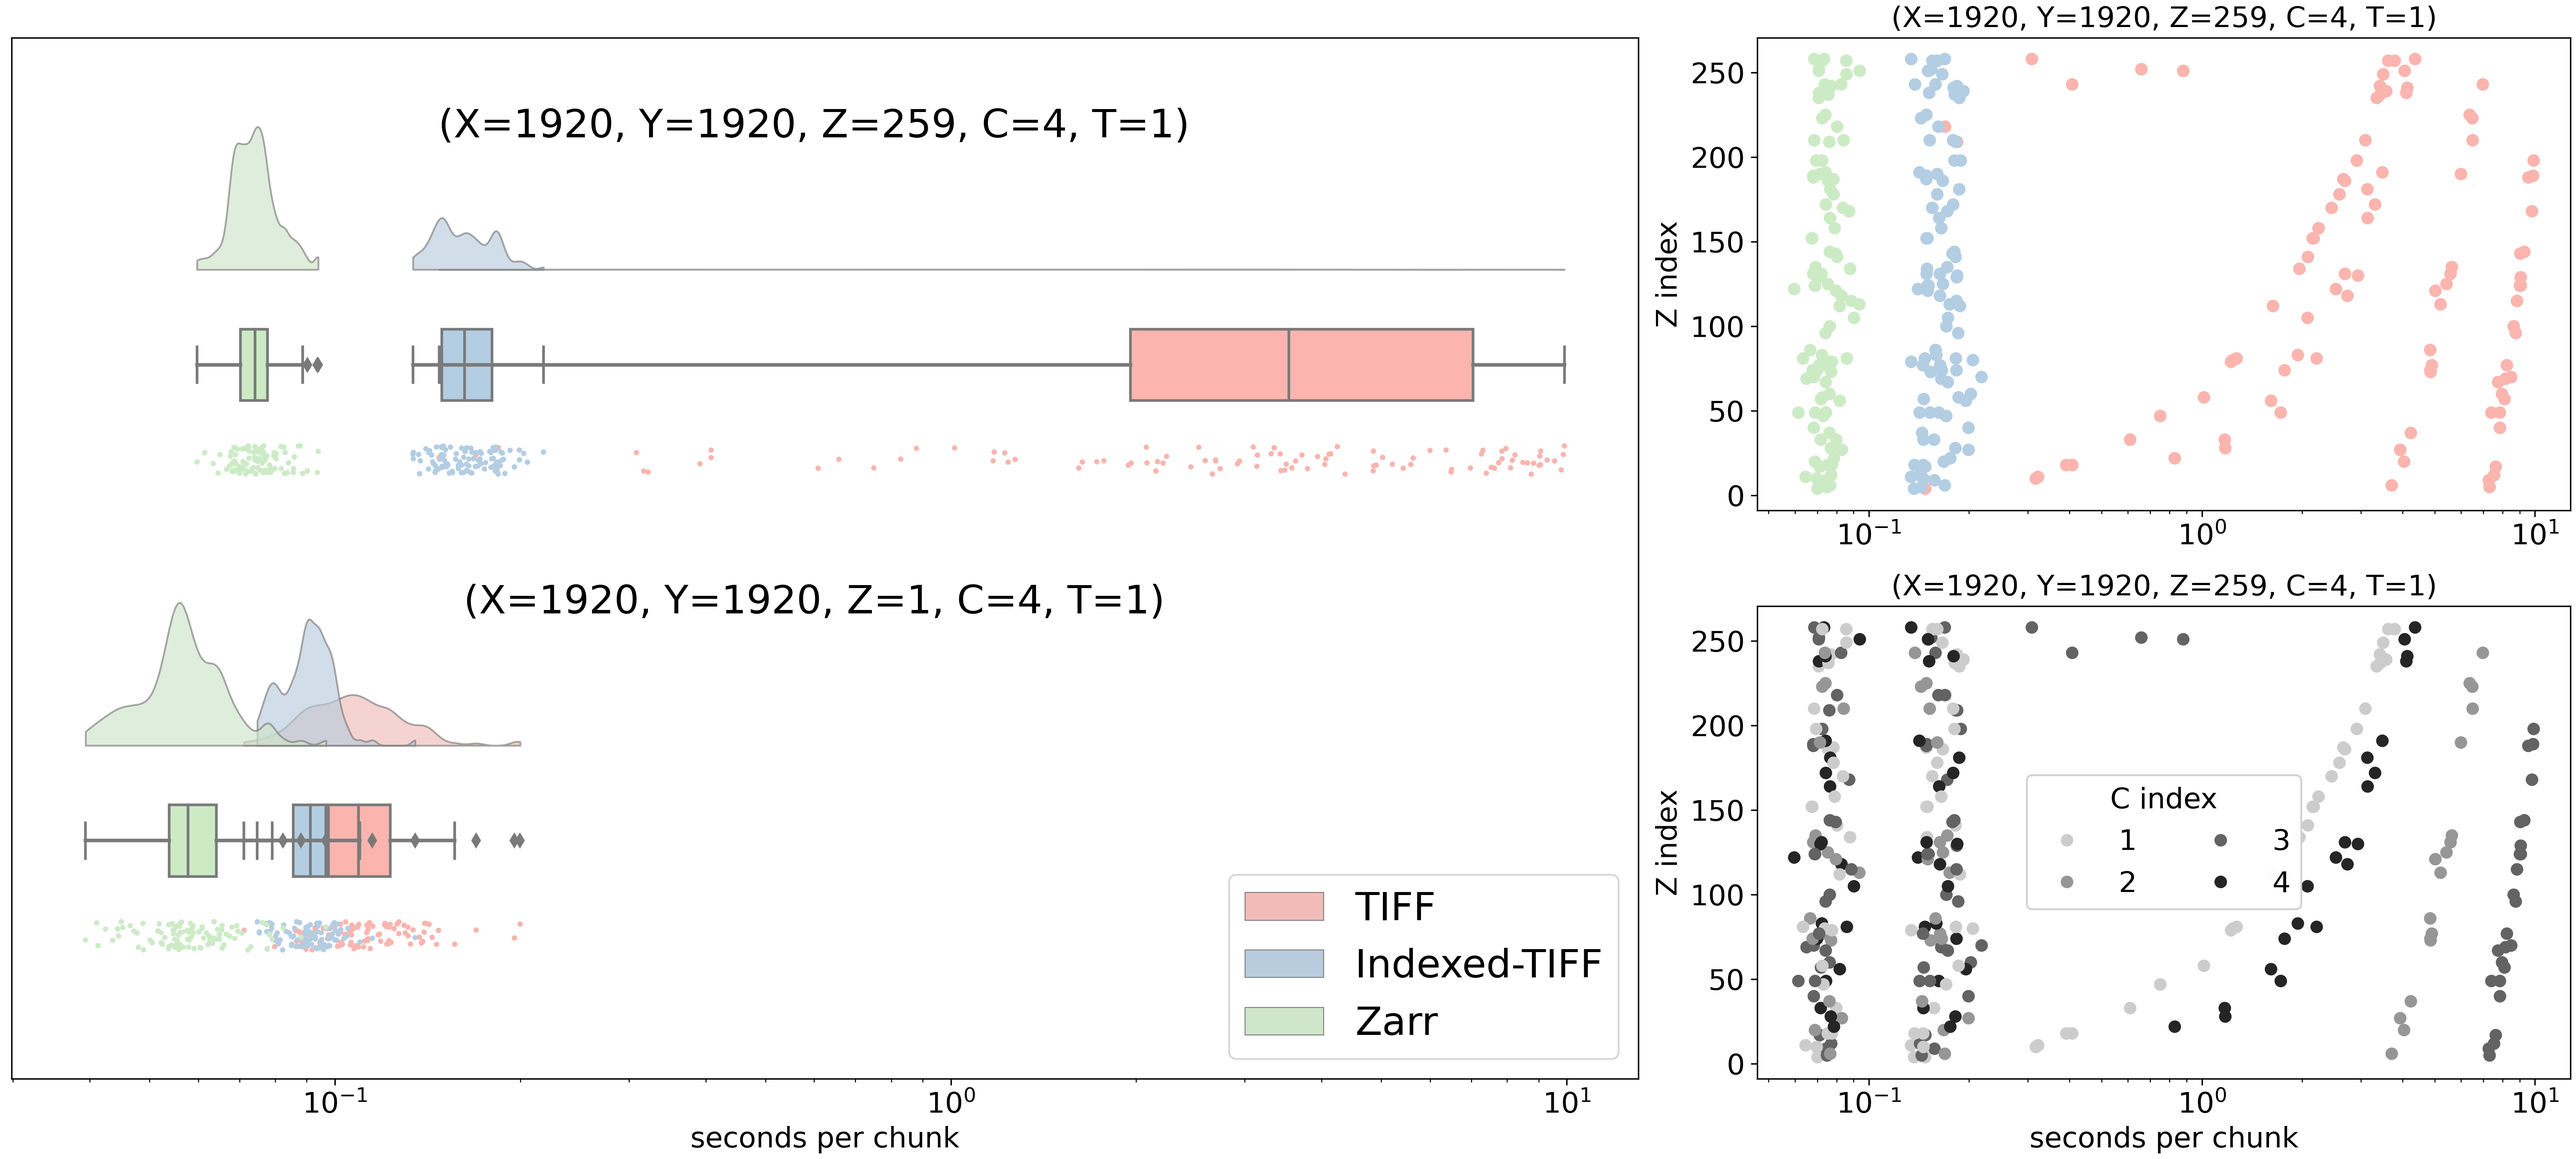
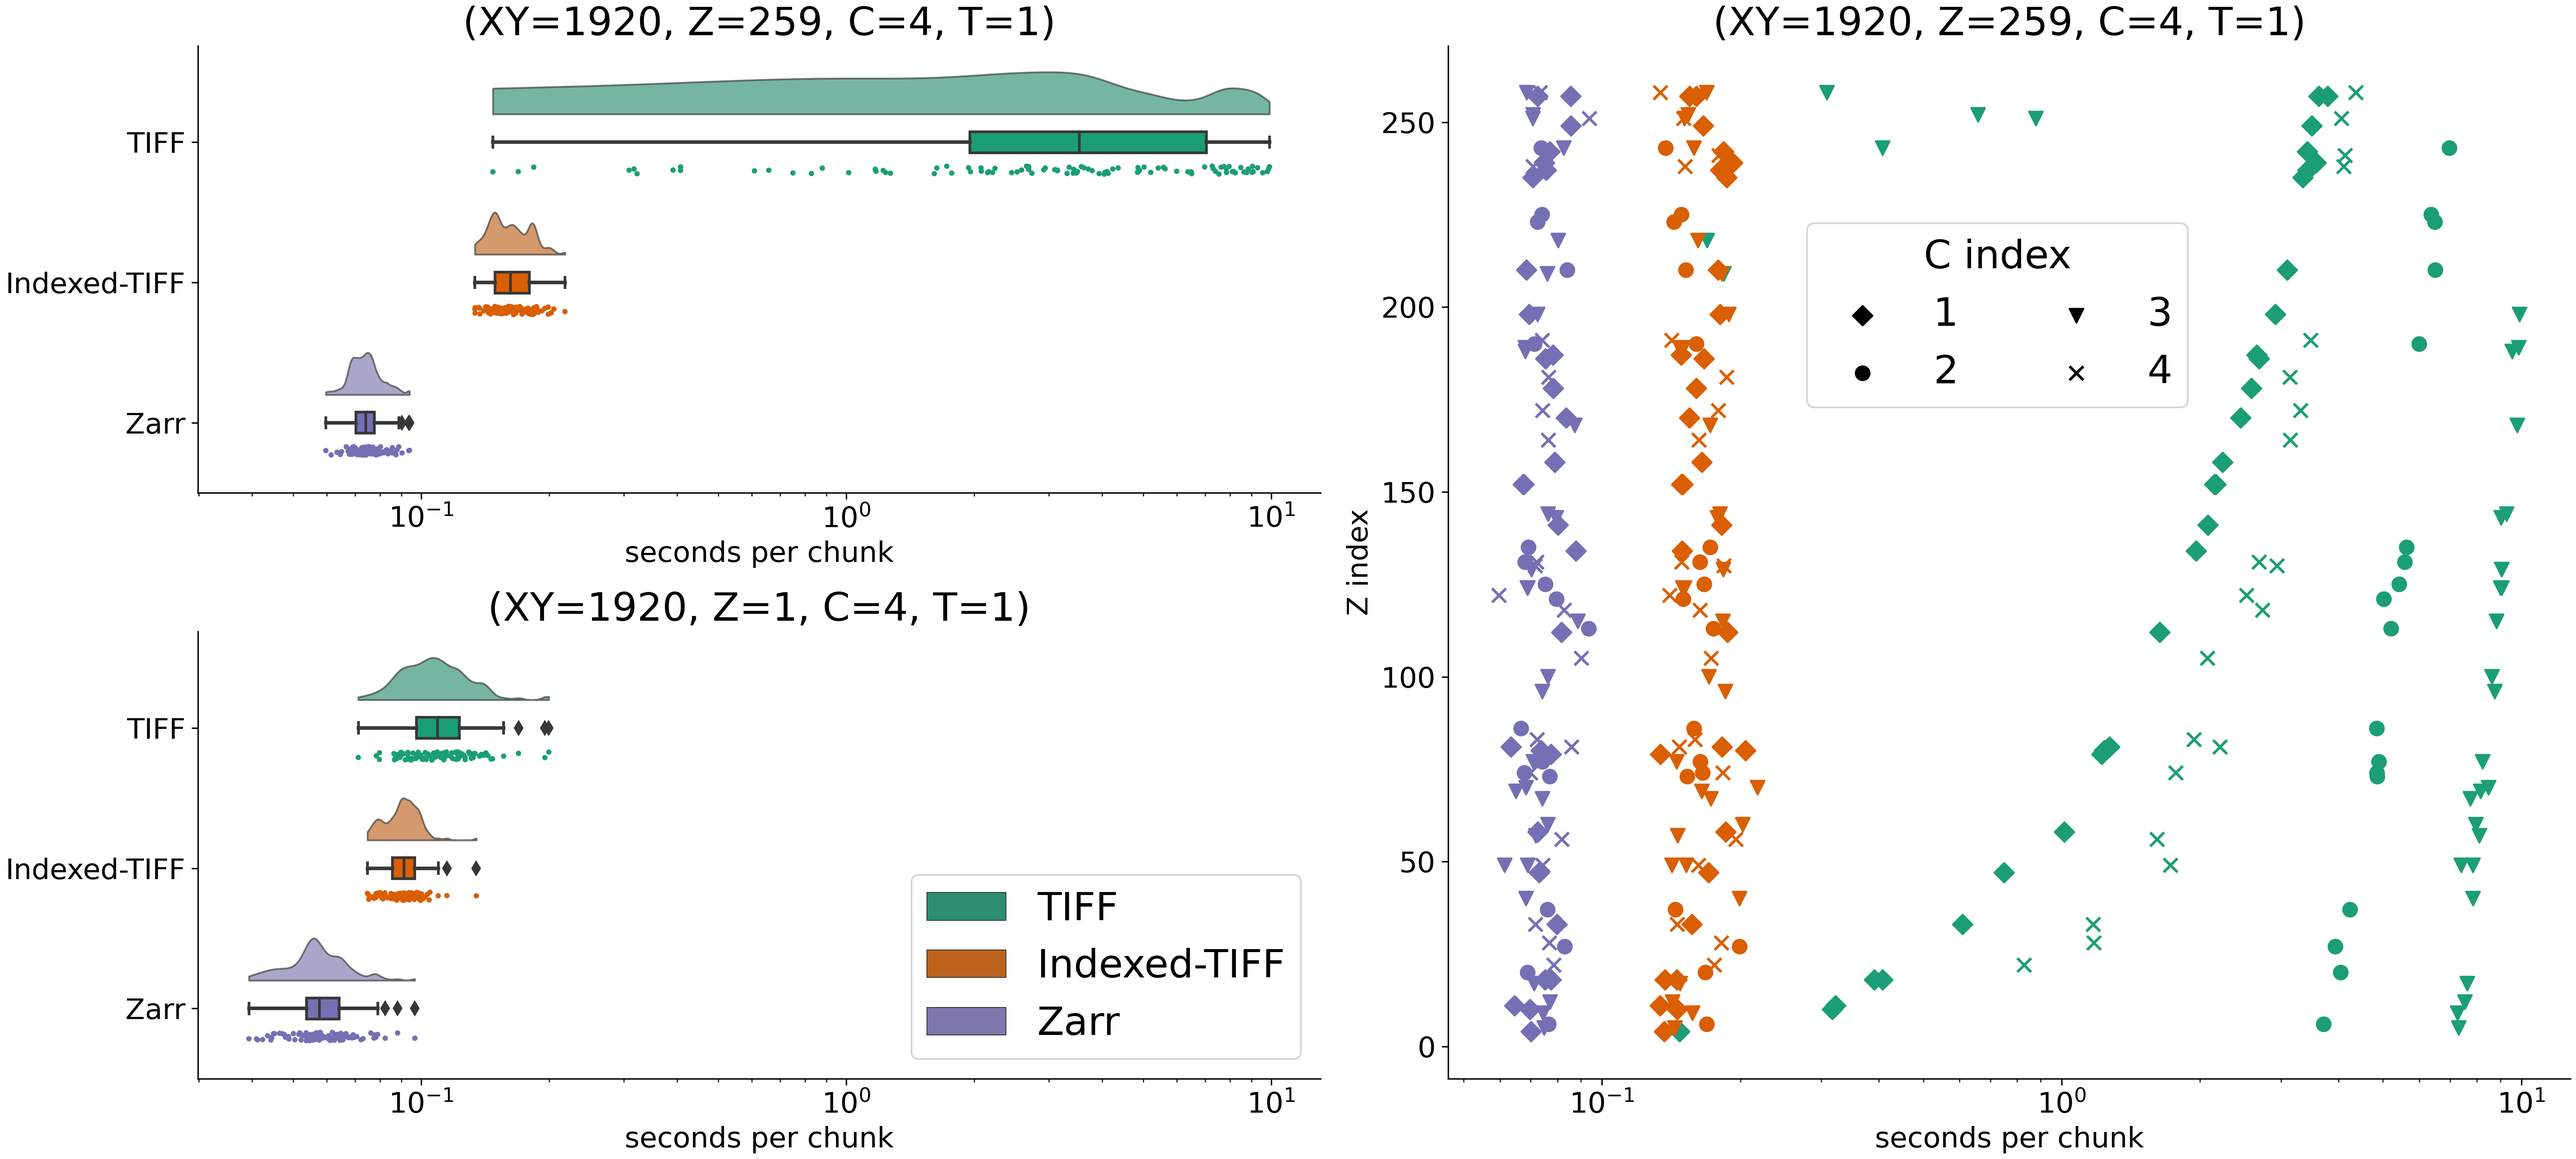
chore(plots): clean up matplotlib, use accessible color palette

diff --git a/js/scripts/plot_combined.py b/js/scripts/plot_combined.py
@@ -4,29 +4,14 @@ from pathlib import Path
 import matplotlib.pyplot as plt
 import pandas as pd
 import ptitprince as pt
-from matplotlib.colors import ListedColormap
 
-if __name__ == "__main__":
-    f = plt.figure(constrained_layout=True, figsize=(20, 9))
-    gs = f.add_gridspec(2, 3)
 
-    ax = f.add_subplot(gs[:, :2])
-    ax1 = f.add_subplot(gs[0, 2])
-    ax2 = f.add_subplot(gs[1, 2])
-
-    cmap = plt.get_cmap("Pastel1")
-    font = 16
-    fontlarge = 22
-
-    results_dir = Path(__file__).parent / ".." / "results"
-    z259 = pd.read_csv(results_dir / "XY-1920-Z-259-C-4-T-1-XC-256.csv")
-    z1 = pd.read_csv(results_dir / "XY-1920-Z-1-C-4-T-1-XC-256.csv")
-
-    ax = pt.RainCloud(
-        x="name",
+def plt_raincloud(ax, df, cmap):
+    pt.RainCloud(
+        x="type",
         y="seconds",
         hue="type",
-        data=pd.concat((z259, z1)),
+        data=df,
         palette=cmap.name,
         width_viol=0.6,
         ax=ax,
@@ -35,73 +20,77 @@ if __name__ == "__main__":
         jitter=0.03,
         move=0.2,
     )
-
+    ax.legend().set_visible(False)
+    ax.axes.get_yaxis().get_label().set_visible(False)
+    ax.set_title(df['name'][0])
     ax.set_xscale("log")
     ax.set_xlabel("seconds per chunk")
-    ax.yaxis.set_visible(False)
+    return ax
 
-    # add text
-    offset = 0.6
-    ax.text(
-        offset,
-        -0.5,
-        "(X=1920, Y=1920, Z=259, C=4, T=1)",
-        ha="center",
-        va="center",
-        fontsize=fontlarge,
-    )
-    ax.text(
-        offset,
-        0.5,
-        "(X=1920, Y=1920, Z=1, C=4, T=1)",
-        ha="center",
-        va="center",
-        fontsize=fontlarge,
-    )
+def scatter_channel_index(ax, df, cmap, fontsize):
+    ax.set_title(df['name'][0])
+    ax.set_ylabel("Z index")
+    ax.set_xlabel("seconds per chunk")
+    ax.set_xscale("log")
 
-    ax.axes.get_yaxis().get_label().set_visible(False)
-    handles, labels = ax.get_legend_handles_labels()
-    ax.legend(handles[0:3], labels[0:3], loc="lower right", fontsize=fontlarge)
+    for i in range(1, 5): 
+        types = list(df['type'].unique())
+        subset = df[df['c'] == i]
+        ax.scatter(
+            subset.seconds,
+            subset.z,
+            marker={1: 'D', 2: 'o', 3: 'v', 4: 'x'}[i],
+            c=subset['type'].map(
+                {name: cmap.colors[i] for i, name in enumerate(types)}
+            ),
+            label=str(i),
+            s=60
+        )
 
-    ax1.set_title("(X=1920, Y=1920, Z=259, C=4, T=1)", fontsize=fontlarge)
-    ax1.set_ylabel("Z index")
-    ax1.set_xscale("log")
-    ax1.scatter(
-        z259.seconds,
-        z259.z,
-        c=z259.type.map(
-            {name: cmap.colors[i] for i, name in enumerate(z259.type.unique())}
-        ),
-    )
-
-    ax2.set_title("(X=1920, Y=1920, Z=259, C=4, T=1)", fontsize=fontlarge)
-    ax2.set_ylabel("Z index")
-    ax2.set_xlabel("seconds per chunk")
-    ax2.set_xscale("log")
-    scatter = ax2.scatter(
-        z259.seconds,
-        z259.z,
-        c=z259.c.astype("category"),
-        cmap=ListedColormap(["#cccccc", "#969696", "#636363", "#252525"]),
-    )
-
-    legend1 = ax2.legend(
-        *scatter.legend_elements(),
+    ax.legend(
+        *ax.get_legend_handles_labels(),
         title="C index",
         ncol=2,
-        loc="center",
-        fontsize=font,
-        title_fontsize=font,
+        loc=(0.32, .65), 
+        fontsize=fontsize,
+        title_fontsize=fontsize,
     )
+    for handle in ax.get_legend().legendHandles:
+        handle.set_color('black')
 
-    ax2.add_artist(legend1)
+if __name__ == "__main__":
+    font = 16
+    fontlarge = 22
+    cmap = plt.get_cmap("Dark2")
+
+    results_dir = Path.cwd() / "results"
+    z259 = pd.read_csv(results_dir / "XY-1920-Z-259-C-4-T-1-XC-256.csv")
+    z1 = pd.read_csv(results_dir / "XY-1920-Z-1-C-4-T-1-XC-256.csv")
+
+    f = plt.figure(constrained_layout=True, figsize=(20, 9))
+    gs = f.add_gridspec(2, 2)
+
+    top_left = f.add_subplot(gs[0, 0])
+    bottom_left = f.add_subplot(gs[1, 0], sharex=top_left)
+    right = f.add_subplot(gs[:, 1:2])
+
+
+    plt_raincloud(top_left, z259, cmap)
+    plt_raincloud(bottom_left, z1, cmap)
+    handles, labels = bottom_left.get_legend_handles_labels()
+    bottom_left.legend(handles[0:3], labels[0:3], loc="lower right", fontsize=fontlarge)
+
+    scatter_channel_index(right, z259, cmap, fontsize=fontlarge)
 
     # bump fontsize for each element
-    for a in [ax, ax1, ax2]:
+    for ax in [top_left, bottom_left, right]:
+        ax.title.set_fontsize(fontlarge)
+        ax.spines['right'].set_visible(False)
+        ax.spines['top'].set_visible(False)
         for item in (
-            [a.title, a.xaxis.label, a.yaxis.label]
-            + a.get_xticklabels()
-            + a.get_yticklabels()
+            [ax.xaxis.label, ax.yaxis.label]
+            + ax.get_xticklabels()
+            + ax.get_yticklabels()
         ):
             item.set_fontsize(font)
 
